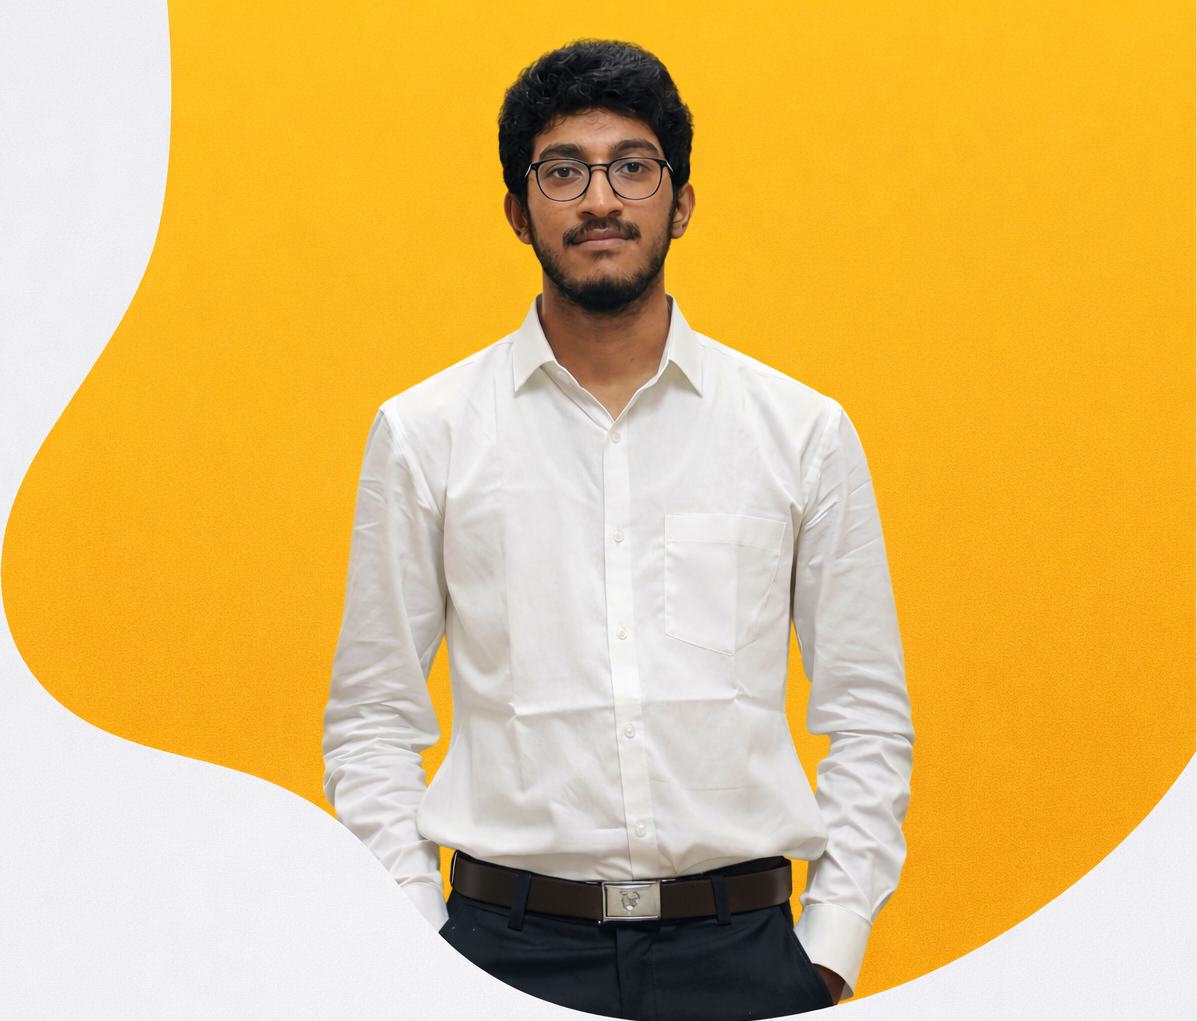
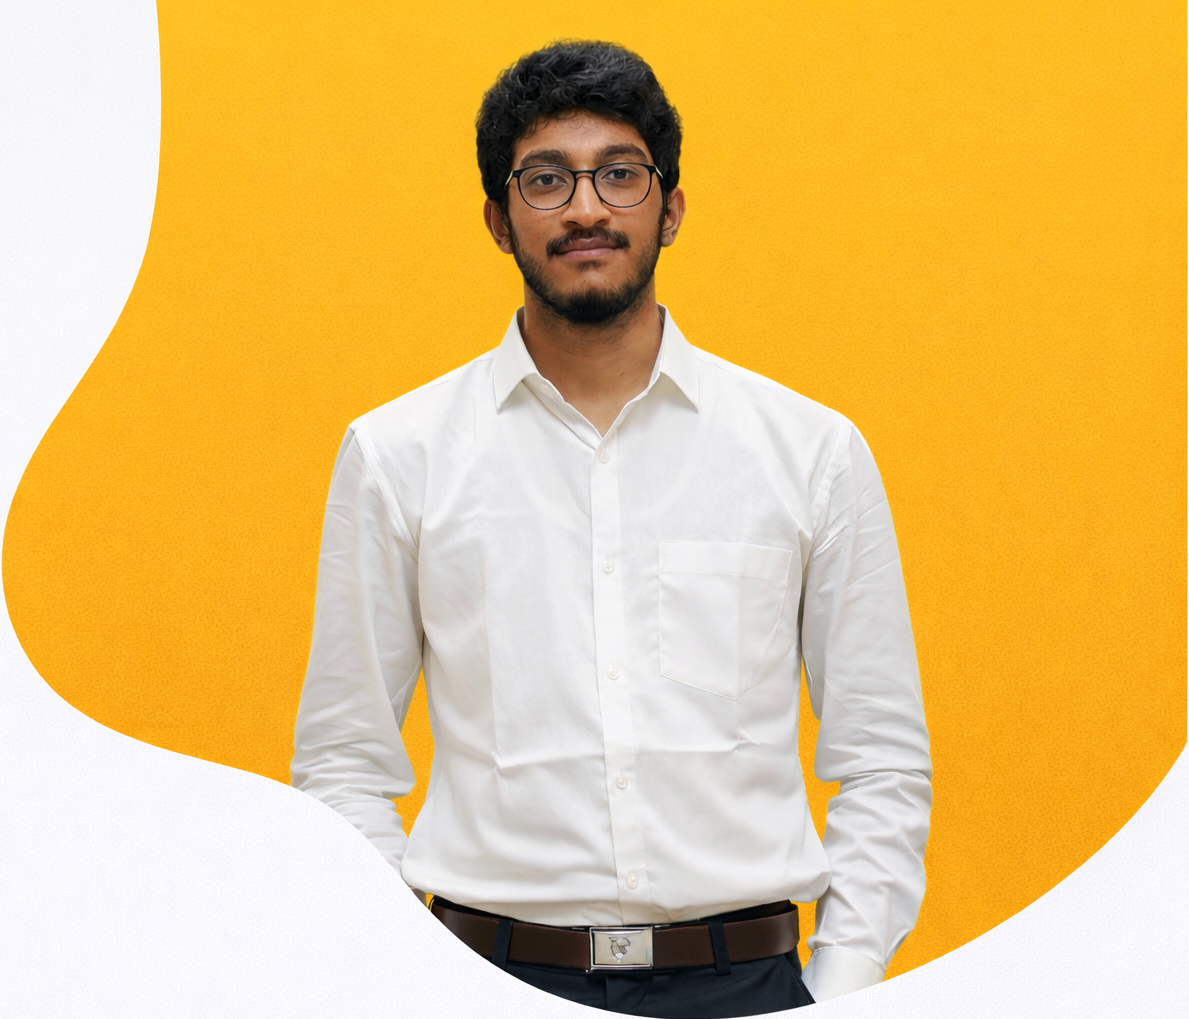
completeing the hero section

diff --git a/client/src/pages/Hero.jsx b/client/src/pages/Hero.jsx
@@ -4,7 +4,7 @@ function Hero() {
 
     return (
         <div id="hero">
-            <div className="into">
+            <div className="intro">
                 <p className="hero-role">FULL STACK WEB DEVELOPER</p>
                 <h1 className="hero-title">
                     Hello, my name <br />
@@ -12,12 +12,26 @@ function Hero() {
                 </h1>
 
                 <p className="hero-desc">
-                    I build modern, responsive web applications with clean UI and efficient backend systems.
-                    Passionate about creating user-focused experiences, currently working on a personal
-                    book tracking platform called OpenShelf.
+                    I specialize in building full-stack web applications using modern technologies like Node.js, Express, PostgreSQL, and dynamic UI rendering with EJS. I enjoy creating structured, maintainable systems with intuitive user interfaces.
                 </p>
+
+                <div className="hero-buttons">
+                    <a
+                        href="https://www.linkedin.com/in/alchuri-sai-praneeth-reddy/"
+                        target="_blank"
+                        rel="noopener noreferrer"
+                        className="linkdin-btn"
+                    >
+                        View LinkedIn
+                    </a>
+
+                    <a href="#contact" className="touch-btn">
+                        Get In Touch
+                    </a>
+                </div>
+
             </div>
-            <div className="hero-image">
+            <div id="hero-image">
                 <img src="/profile.png" alt="Profile" className="hero-img" />
             </div>
         </div>

diff --git a/client/src/pages/Hero.css b/client/src/pages/Hero.css
@@ -1,0 +1,63 @@
+#hero {
+  display: flex;
+  justify-content: space-between; 
+  align-items: center;           
+  padding: 0 80px;
+  background-color: #F6F6FA;
+  /* min-height: 90vh;                */
+}
+
+.intro {
+  max-width: 550px;
+  display: flex;
+  flex-direction: column;
+  justify-content: center; 
+}
+
+.hero-title {
+  margin: 10px 0;
+  font-size: 60px;
+}
+
+.hero-desc {
+  margin: 15px 0;
+  font-size: 20px;
+}
+
+.hero-role {
+  margin-bottom: 10px;
+  font-size: 25px;
+}
+
+.hero-buttons{
+    display: flex;
+    gap: 30px;
+    padding: 10px;
+}
+
+.hero-buttons a{
+    text-decoration: none;
+    color: black;
+    padding: 15px;
+    border-radius: 10px;
+}
+
+.linkdin-btn{
+    border: 1px black solid;
+}
+
+.touch-btn{
+    background-color: #FDBB22;
+}
+
+#hero-image {
+  display: flex;
+  justify-content: center;
+  align-items: center;
+}
+
+.hero-img {
+  max-height: 85vh;
+  padding-bottom: 10px;
+  /* object-fit: cover; */
+}

diff --git a/client/src/pages/header.jsx b/client/src/pages/header.jsx
@@ -4,7 +4,7 @@ function Header() {
         <div id='header'>
 
             <div className='title'>
-                <h1 className='title-name'>ALCHURI SAI PRANEETH REDDY</h1>
+                <h1 className='title-name'>Alchuri Sai Praneeth Reddy</h1>
             </div>
 
             <div id="header-right">

diff --git a/client/src/pages/header.css b/client/src/pages/header.css
@@ -4,6 +4,10 @@
     justify-content: space-around;
 }
 
+/* #header-right{
+    justify-content: flex-end;
+} */
+
 .title-name {
   margin: 0;
 }
